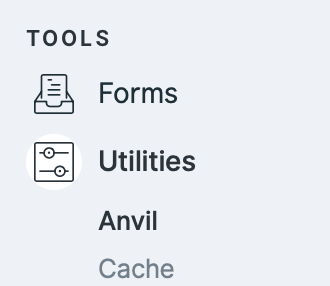
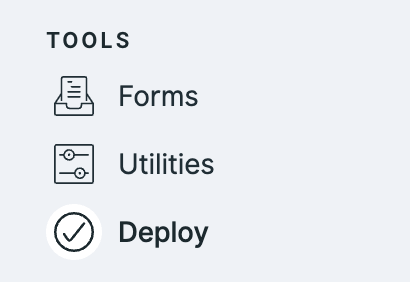
Makes Trigger much more customisable, adds permission

diff --git a/dist/js/cp.js b/dist/js/cp.js
@@ -1,0 +1,1 @@
+!function(t){var n={};function e(o){if(n[o])return n[o].exports;var r=n[o]={i:o,l:!1,exports:{}};return t[o].call(r.exports,r,r.exports,e),r.l=!0,r.exports}e.m=t,e.c=n,e.d=function(t,n,o){e.o(t,n)||Object.defineProperty(t,n,{enumerable:!0,get:o})},e.r=function(t){"undefined"!=typeof Symbol&&Symbol.toStringTag&&Object.defineProperty(t,Symbol.toStringTag,{value:"Module"}),Object.defineProperty(t,"__esModule",{value:!0})},e.t=function(t,n){if(1&n&&(t=e(t)),8&n)return t;if(4&n&&"object"==typeof t&&t&&t.__esModule)return t;var o=Object.create(null);if(e.r(o),Object.defineProperty(o,"default",{enumerable:!0,value:t}),2&n&&"string"!=typeof t)for(var r in t)e.d(o,r,function(n){return t[n]}.bind(null,r));return o},e.n=function(t){var n=t&&t.__esModule?function(){return t.default}:function(){return t};return e.d(n,"a",n),n},e.o=function(t,n){return Object.prototype.hasOwnProperty.call(t,n)},e.p="/",e(e.s=0)}([function(t,n,e){t.exports=e(1)},function(t,n,e){"use strict";e.r(n);var o=function(t,n,e,o,r,i,s,a){var c,u="function"==typeof t?t.options:t;if(n&&(u.render=n,u.staticRenderFns=e,u._compiled=!0),o&&(u.functional=!0),i&&(u._scopeId="data-v-"+i),s?(c=function(t){(t=t||this.$vnode&&this.$vnode.ssrContext||this.parent&&this.parent.$vnode&&this.parent.$vnode.ssrContext)||"undefined"==typeof __VUE_SSR_CONTEXT__||(t=__VUE_SSR_CONTEXT__),r&&r.call(this,t),t&&t._registeredComponents&&t._registeredComponents.add(s)},u._ssrRegister=c):r&&(c=a?function(){r.call(this,this.$root.$options.shadowRoot)}:r),c)if(u.functional){u._injectStyles=c;var f=u.render;u.render=function(t,n){return c.call(n),f(t,n)}}else{var l=u.beforeCreate;u.beforeCreate=l?[].concat(l,c):[c]}return{exports:t,options:u}}({props:{lang:{type:Object,default:function(){return[]}},route:{type:String,default:""}},data:function(){return{confirming:!1,firing:!1}},methods:{submit:function(){var t=this;this.confirming=!1,this.firing=!0,this.$axios.post(this.route).then((function(n){t.$toast.success(t.lang.success)})).catch((function(n){t.$toast.error(t.lang.failed),console.log(n)})).finally((function(){t.firing=!1}))}}},(function(){var t=this,n=t.$createElement,e=t._self._c||n;return e("div",[e("div",{staticClass:"flex items-center justify-between"},[e("div",{staticClass:"pr-4"},[e("h2",{staticClass:"font-bold"},[t._v(t._s(t.lang.heading))]),t._v(" "),e("p",{staticClass:"my-1 text-sm text-grey"},[t._v(t._s(t.lang.text))])]),t._v(" "),e("button",{staticClass:"btn",on:{click:function(n){n.preventDefault(),t.confirming=!0}}},[t.firing?e("span",[t._v(t._s(t.lang.firing))]):e("span",[t._v(t._s(t.lang.action))])])]),t._v(" "),t.confirming?e("confirmation-modal",{attrs:{title:t.lang.heading,bodyText:t.lang.confirmation,buttonText:t.lang.confirm,danger:"true"},on:{confirm:t.submit,cancel:function(n){t.confirming=!1}}}):t._e()],1)}),[],!1,null,null,null).exports;Statamic.booting((function(){Statamic.$components.register("deploy-site",o)}))}]);

diff --git a/resources/js/TriggerAddon.vue b/resources/js/TriggerAddon.vue
@@ -1,0 +1,64 @@
+<template>
+  <div>
+    <div class="flex items-center justify-between">
+      <div class="pr-4">
+        <h2 class="font-bold">{{ lang.heading }}</h2>
+        <p class="my-1 text-sm text-grey">{{ lang.text }}</p>
+      </div>
+      <button @click.prevent="confirming = true" class="btn">
+        <span v-if="firing">{{ lang.firing }}</span>
+        <span v-else>{{ lang.action }}</span>
+      </button>
+    </div>
+    <confirmation-modal
+      v-if="confirming"
+      :title="lang.heading"
+      :bodyText="lang.confirmation"
+      :buttonText="lang.confirm"
+      danger="true"
+      @confirm="submit"
+      @cancel="confirming = false"
+    />
+  </div>
+</template>
+
+<script>
+  export default {
+    props: {
+      lang: {
+        type: Object,
+        default: () => [],
+      },
+      route: {
+        type: String,
+        default: '',
+      },
+    },
+
+    data() {
+      return {
+        confirming: false,
+        firing: false,
+      }
+    },
+
+    methods: {
+      submit() {
+        this.confirming = false
+        this.firing = true
+
+        this.$axios.post(this.route)
+          .then(response => {
+            this.$toast.success(this.lang.success)
+          })
+          .catch((error) => {
+            this.$toast.error(this.lang.failed)
+            console.log(error)
+          })
+          .finally(() => {
+            this.firing = false
+          })
+      },
+    },
+  }
+</script>

diff --git a/resources/js/cp.js b/resources/js/cp.js
@@ -1,5 +1,5 @@
-import DeploySite from './DeploySite.vue';
+import TriggerAddon from './TriggerAddon.vue';
 
 Statamic.booting(() => {
-    Statamic.$components.register('deploy-site', DeploySite)
+    Statamic.$components.register('trigger-addon', TriggerAddon)
 })

diff --git a/src/ServiceProvider.php b/src/ServiceProvider.php
@@ -3,12 +3,15 @@
 namespace Davidsneal\Trigger;
 
 use Statamic\Providers\AddonServiceProvider;
-use Statamic\Facades\Utility;
-use Davidsneal\Trigger\Http\Controllers\SiteController;
-use Davidsneal\Trigger\Http\Controllers\Actions\TriggerController;
+use Statamic\Facades\CP\Nav;
+use Statamic\Facades\Permission;
 
 class ServiceProvider extends AddonServiceProvider
 {
+    protected $routes = [
+        'cp' => __DIR__ . '/../routes/cp.php',
+    ];
+
     protected $scripts = [
         __DIR__.'/../dist/js/cp.js',
     ];
@@ -16,23 +19,42 @@ class ServiceProvider extends AddonServiceProvider
     public function boot()
     {
         parent::boot();
-        // Statamic::script('trigger', 'cp.js');
 
         $this->loadViewsFrom(__DIR__.'/../resources/views', 'trigger');
+        $this->mergeConfigFrom(__DIR__ . '/../config/trigger.php', 'trigger');
+        $this->loadTranslationsFrom(__DIR__ . '/../resources/lang', 'trigger');
 
-        $this->publishes([
-            __DIR__.'/../config/trigger.php' => config_path('trigger.php'),
-        ]);
+        if ($this->app->runningInConsole()) {
+            $this->publishes([
+                __DIR__.'/../resources/lang' => resource_path('lang/vendor/davidsneal/trigger/'),
+            ], 'Statamic Trigger Lang File');
 
-        $utility = Utility::make('trigger')
-            ->action(SiteController::class)
-            ->icon('hammer-wrench')
-            ->description('Deploy your Site');
+            $this->publishes([
+                __DIR__.'/../config/trigger.php' => config_path('trigger.php'),
+            ], 'Statamic Trigger Config File');
+        }
 
-        $utility->routes(function ($router) {
-            $router->post('trigger', [TriggerController::class, '__invoke'])->name('trigger');
+        $this->bootNavigation();
+        $this->bootPermissions();
+    }
+
+    private function bootNavigation(): void
+    {
+        Nav::extend(function($nav) {
+            $nav->create(__('trigger::lang.name'))
+                ->icon(config('trigger.icon'))
+                ->section('Tools')
+                ->route(config('trigger.path').'.index')
+                ->can('use trigger');
         });
+    }
 
-        $utility->register();
+    private function bootPermissions() {
+        $this->app->booted(function () {
+            Permission::group('trigger', __('trigger::lang.name'), function () {
+                Permission::register('use trigger')
+                    ->label(__('trigger::lang.permission'));
+            });
+        });
     }
 }

diff --git a/routes/cp.php b/routes/cp.php
@@ -2,14 +2,9 @@
 
 use Illuminate\Support\Facades\Route;
 use Davidsneal\Trigger\Http\Controllers\SiteController;
-use Davidsneal\Trigger\Http\Controllers\Actions\DeploySiteController;
-use Davidsneal\Trigger\Http\Controllers\Actions\DeploymentLogController;
+use Davidsneal\Trigger\Http\Controllers\Actions\TriggerController;
 
-Route::name('trigger.')->prefix('trigger')->group(function () {
+Route::name(config('trigger.path').'.')->prefix(config('trigger.path'))->group(function () {
     Route::get('/', [SiteController::class, '__invoke'])->name('index');
-    Route::get('/site', [SiteController::class, '__invoke'])->name('site');
-    Route::name('site.')->prefix('site')->group(function () {
-        Route::post('deploy', [DeploySiteController::class, '__invoke'])->name('deploy');
-        Route::get('deployment-log', [DeploymentLogController::class, '__invoke'])->name('deployment-log');
-    });
+    Route::post('/', [TriggerController::class, '__invoke'])->name('fire');
 });

diff --git a/resources/views/cp/trigger.blade.php b/resources/views/cp/trigger.blade.php
@@ -4,18 +4,16 @@
 
 @section('content')
     <header class="mb-3">
-
-        @include('statamic::partials.breadcrumb', [
-            'url' => cp_route('utilities.index'),
-            'title' => __('Utilities')
-        ])
         <div class="flex items-center justify-between">
-            <h1>Trigger</h1>
+            <h1>{{ __('trigger::lang.name') }}</h1>
         </div>
     </header>
     <div class="p-0 card">
         <div class="p-2">
-            <deploy-site route="{{ $route }}"></deploy-site>
+            <trigger-addon
+                :lang='@json(__('trigger::lang.component'))'
+                route="{{ route('statamic.cp.'.config('trigger.path').'.fire') }}"
+            />
         </div>
     </div>
 @endsection

diff --git a/resources/lang/en/lang.php b/resources/lang/en/lang.php
@@ -1,0 +1,17 @@
+<?php
+
+return [
+    'component' => [
+        'action' => 'Deploy',
+        'confirm' => 'Deploy',
+        'confirmation' => 'Are you sure you want to deploy your site?',
+        'heading' => 'Deploy Site',
+        'failed' => 'Deployment request failed',
+        'firing' => 'Deploying',
+        'success' => 'Deployment trigger successful',
+        'text' => 'Trigger a deployment of your site.',
+    ],
+    'failed' => 'Deployment request failed',
+    'name' => 'Deploy',
+    'permission' => 'Deploy Site',
+];

diff --git a/src/Http/Controllers/Actions/TriggerController.php b/src/Http/Controllers/Actions/TriggerController.php
@@ -9,9 +9,9 @@ class TriggerController extends BaseController
 {
     public function __invoke()
     {
-        $response = Zttp::post(env('BUILD_HOOK_URL'));
+        $response = Zttp::post(config('trigger.url'));
 
-        abort_unless($response->isOk(), 'Trigger request failed');
+        abort_unless($response->isOk(), __('trigger::lang.failed'));
 
         return response()->json();
     }

diff --git a/src/Http/Controllers/SiteController.php b/src/Http/Controllers/SiteController.php
@@ -6,8 +6,6 @@ class SiteController extends BaseController
 {
     public function __invoke()
     {
-        return view('trigger::cp.trigger', [
-            'route' => route('statamic.cp.utilities.trigger.trigger'),
-        ]);
+        return view('trigger::cp.trigger');
     }
 }

diff --git a/config/trigger.php b/config/trigger.php
@@ -1,0 +1,7 @@
+<?php
+
+return [
+    'icon' => 'radio',
+    'path' => 'deploy',
+    'url' => env('TRIGGER_FIRE_URL'),
+];

diff --git a/README.md b/README.md
@@ -1,7 +1,37 @@
 # Trigger
 
-Allows you to deploy your site via a simple build hook url `BUILD_HOOK_URL`
+Allows you to make a simple `POST` request to a configured URL. Particularly helpful for deployment triggers.
 
-## Install
+## Installation 
 
-From your site folder, run `composer require davidsneal/trigger`
+`composer require davidsneal/trigger`
+
+Copy `dist/js/cp.js` to your public folder `public/vendor/davidsneal/trigger/js/cp.js`
+
+Sorry, I've yet to figure out a better way to do this ^^
+
+## Configuration
+
+Set the URL that the `POST` request should be made to in your `.env` via `TRIGGER_FIRE_URL`
+
+(optional) Publish Trigger's default configuration and language files by running `php artisan vendor:publish --provider="Davidsneal\Trigger\ServiceProvider"`
+
+You could require Trigger for something different to triggering a deployment, all text displayed by Trigger is customisable.
+
+## Usage
+
+You can access the Trigger from the CP menu under Tools. Use the published language file to change the item name, and config file to change the icon, should you wish.
+
+![menu](https://github.com/davidsneal/statamic-trigger/blob/master/img/menu.png?raw=true)
+
+This is the default component view, again you can change every item of text, including the confirmation modal.
+
+![main](https://github.com/davidsneal/statamic-trigger/blob/master/img/main-screen.png?raw=true)
+
+![confirmation](https://github.com/davidsneal/statamic-trigger/blob/master/img/confirmation.png?raw=true)
+
+## Permissions
+
+Trigger adds a permission you can assign to groups as required.
+
+![permission](https://github.com/davidsneal/statamic-trigger/blob/master/img/permission.png?raw=true)
